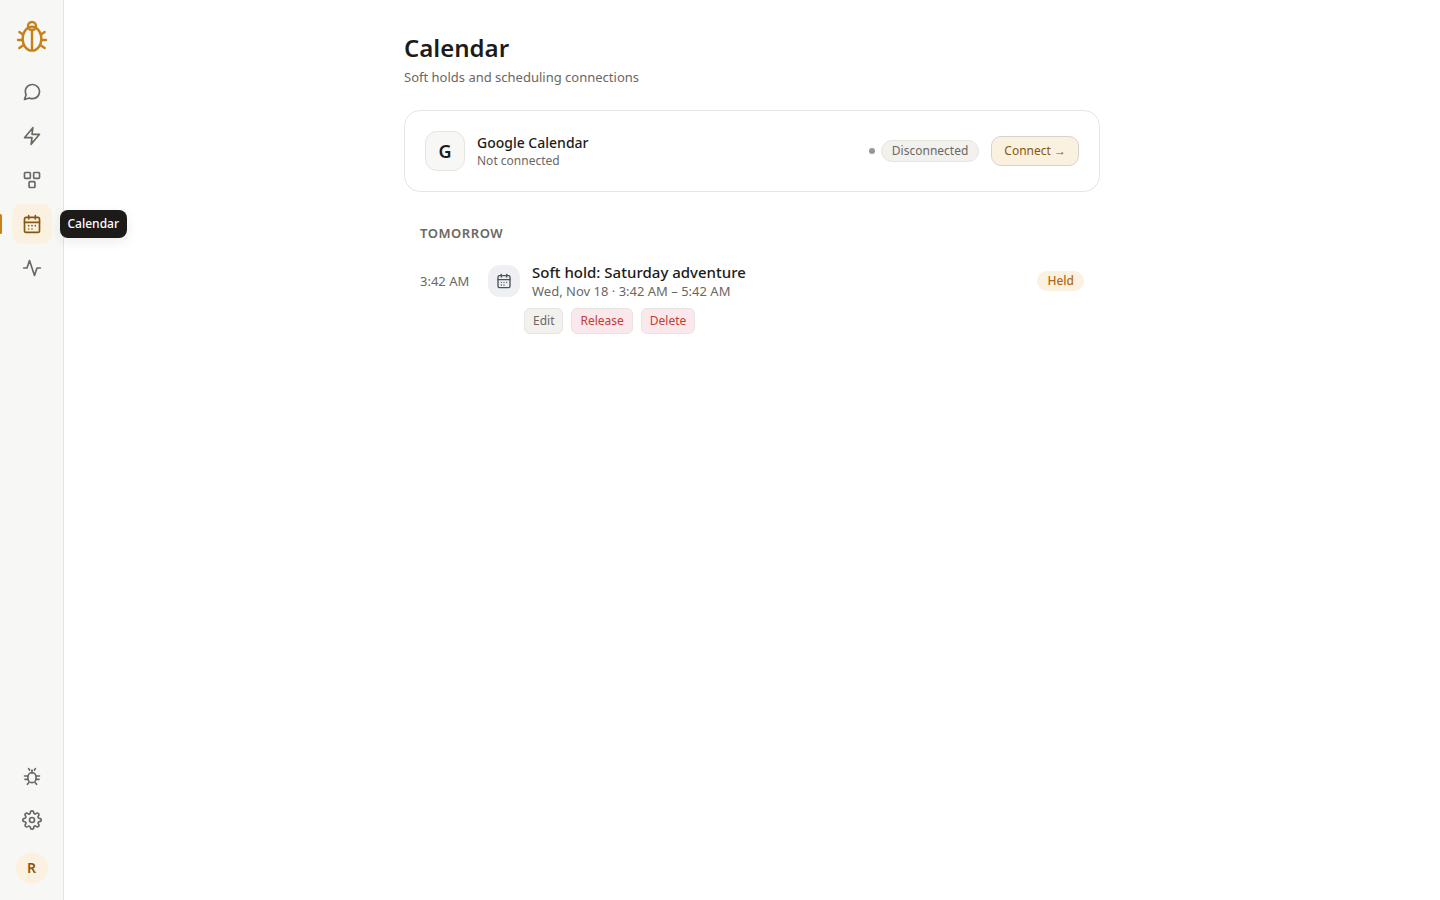
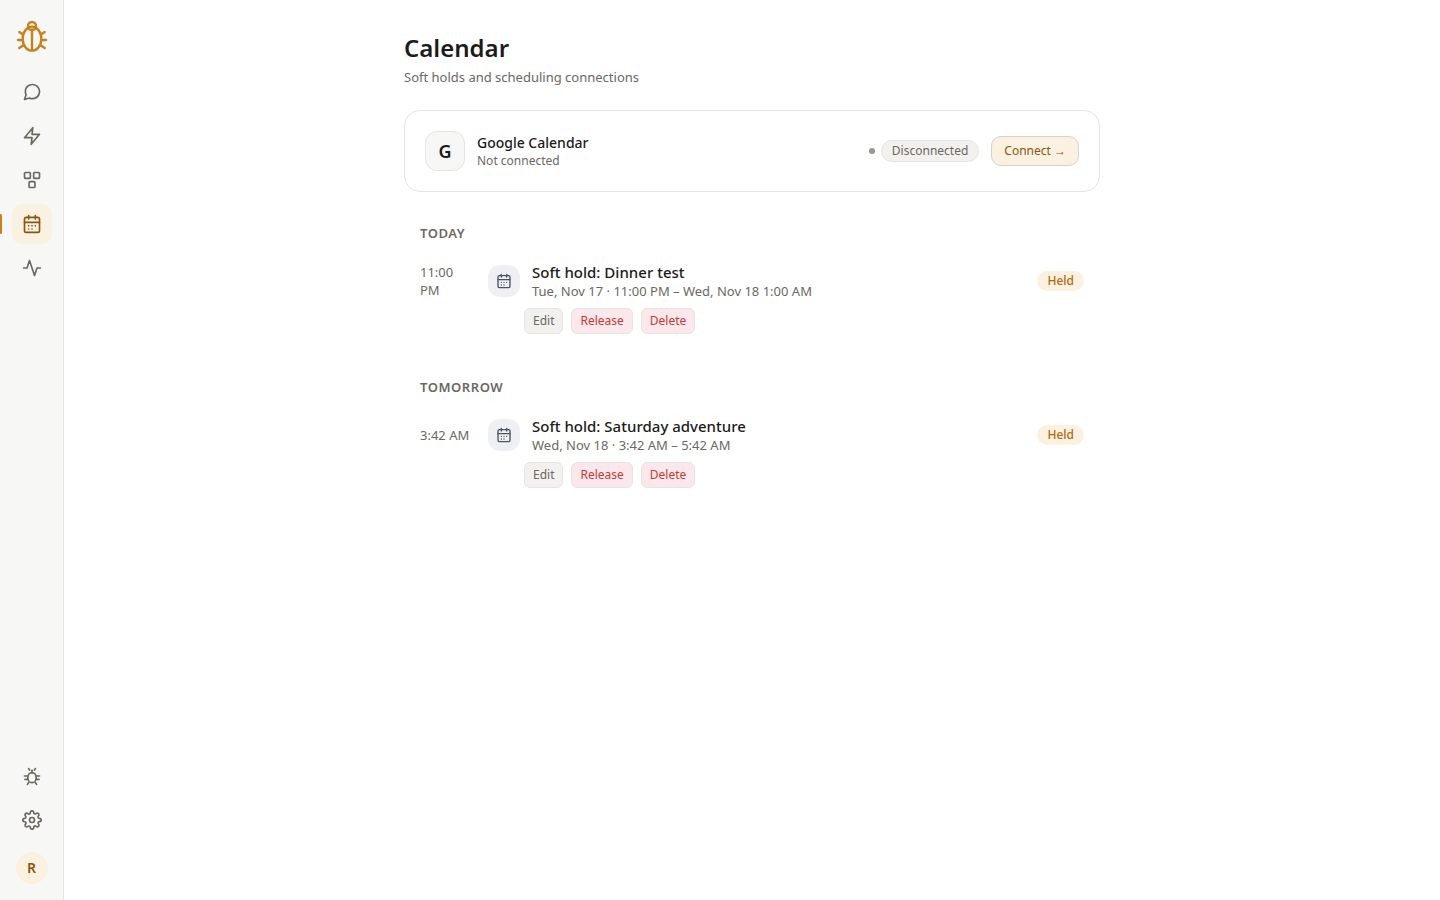
docs(readme): showcase the 3 missing pages and a Calendar Today group
Fix cycle 1 for the U7 Judge FAIL on R6 and R8. Third Showcase row
adds Autopilots, Settings, and Compare. The Calendar shot now shows a
Today group with a held dinner test hold, so the Today first caption
holds. Screenshots from the real app, Nov 17, 2026.

diff --git a/README.md b/README.md
@@ -76,6 +76,11 @@ The demo above covers steps 1 and 2 and ends as the itinerary request is sent. S
 | ![Activity grouped by day](docs/showcase/activity-light.png) | ![Chat on phone](docs/showcase/chat-phone-light.png) | ![Packs on phone](docs/showcase/packs-phone-light.png) |
 | Every agent action grouped by Today, Yesterday, and date. | Chat is the main screen, with the bottom tab bar on phone. | Installed and Popular packs, each with a visual icon. |
 
+| Autopilots | Settings | Compare options |
+|---|---|---|
+| ![Autopilots list](docs/showcase/autopilots-light.png) | ![Settings](docs/showcase/settings-light.png) | ![Compare options page](docs/showcase/compare-light.png) |
+| Recurring plans Beetlebot runs for you. 2 active here, each with an On switch. | Profile, approvals, spend cap, and the model in use: Muse Spark, meta/muse-spark-1.3. | The full compare page, flights and hotels side by side. Flights from the Duffel search on Nov 16, 2026; hotel prices from a saved Hello Axel check, not live. |
+
 Screenshots from the real app, Nov 17, 2026. Flight prices are from the Duffel search on Nov 16, 2026, and will differ now.
 
 ## Highlights
